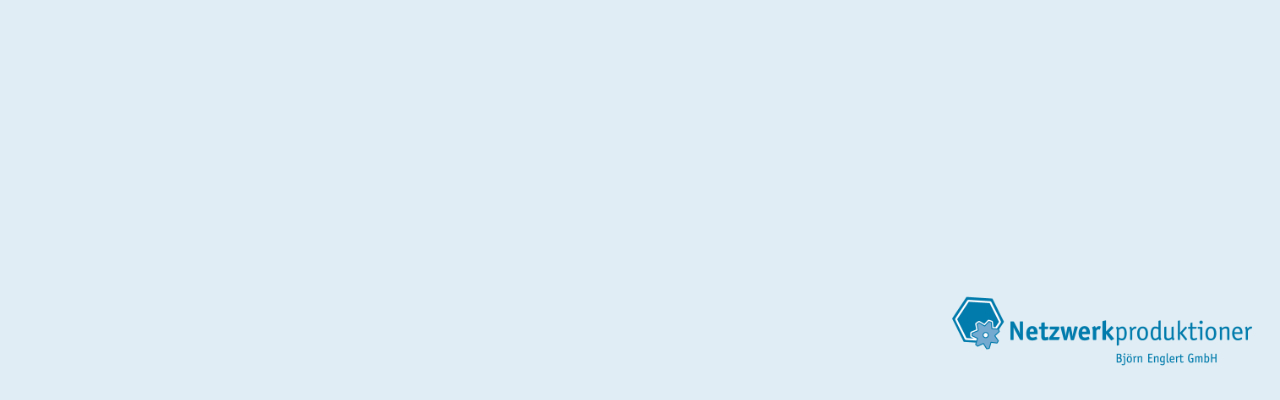
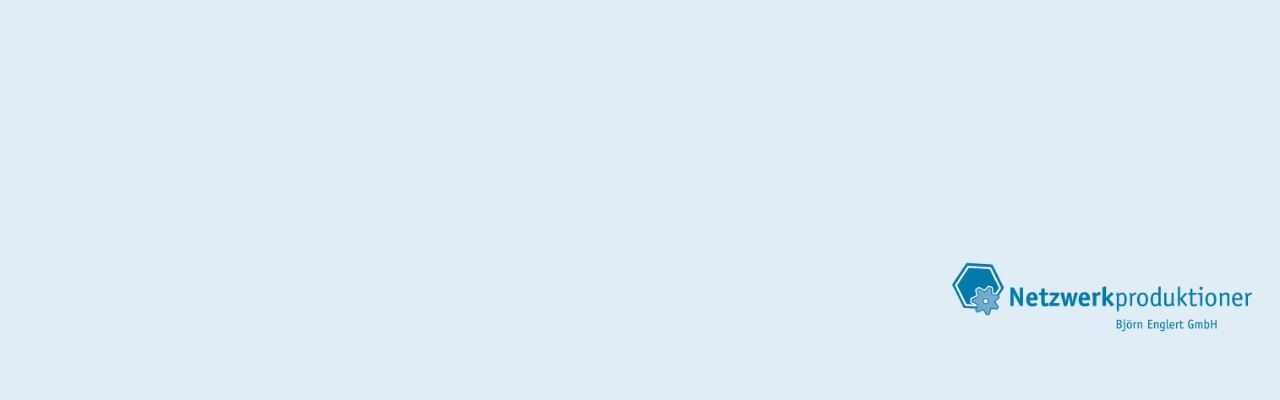
updates frontend

Changed region(s): [[0.7188, 0.66, 1.0, 0.93]]

diff --git a/apps/jitsi-meet/custom-frontend/subdomain.domain.tld/static/css/meet.css b/apps/jitsi-meet/custom-frontend/subdomain.domain.tld/static/css/meet.css
@@ -199,10 +199,10 @@ You can get a copy of the license under: https://www.apache.org/licenses/LICENSE
 .header {
     background-position: center !important;
     background-repeat: no-repeat !important;
-    background-color:#eae9ee !important;
+    background-color:#E1EDF4 !important;
     background-size: auto !important;
     /* background-size: auto !important; */ /* uncomment this if you use a centered background with same background-color (left and right) */
-    background-image: url(../../images/header.jpg) !important;
+    background-image: url(../../images/header.png) !important;
 }
 
 .header-text-title, 
